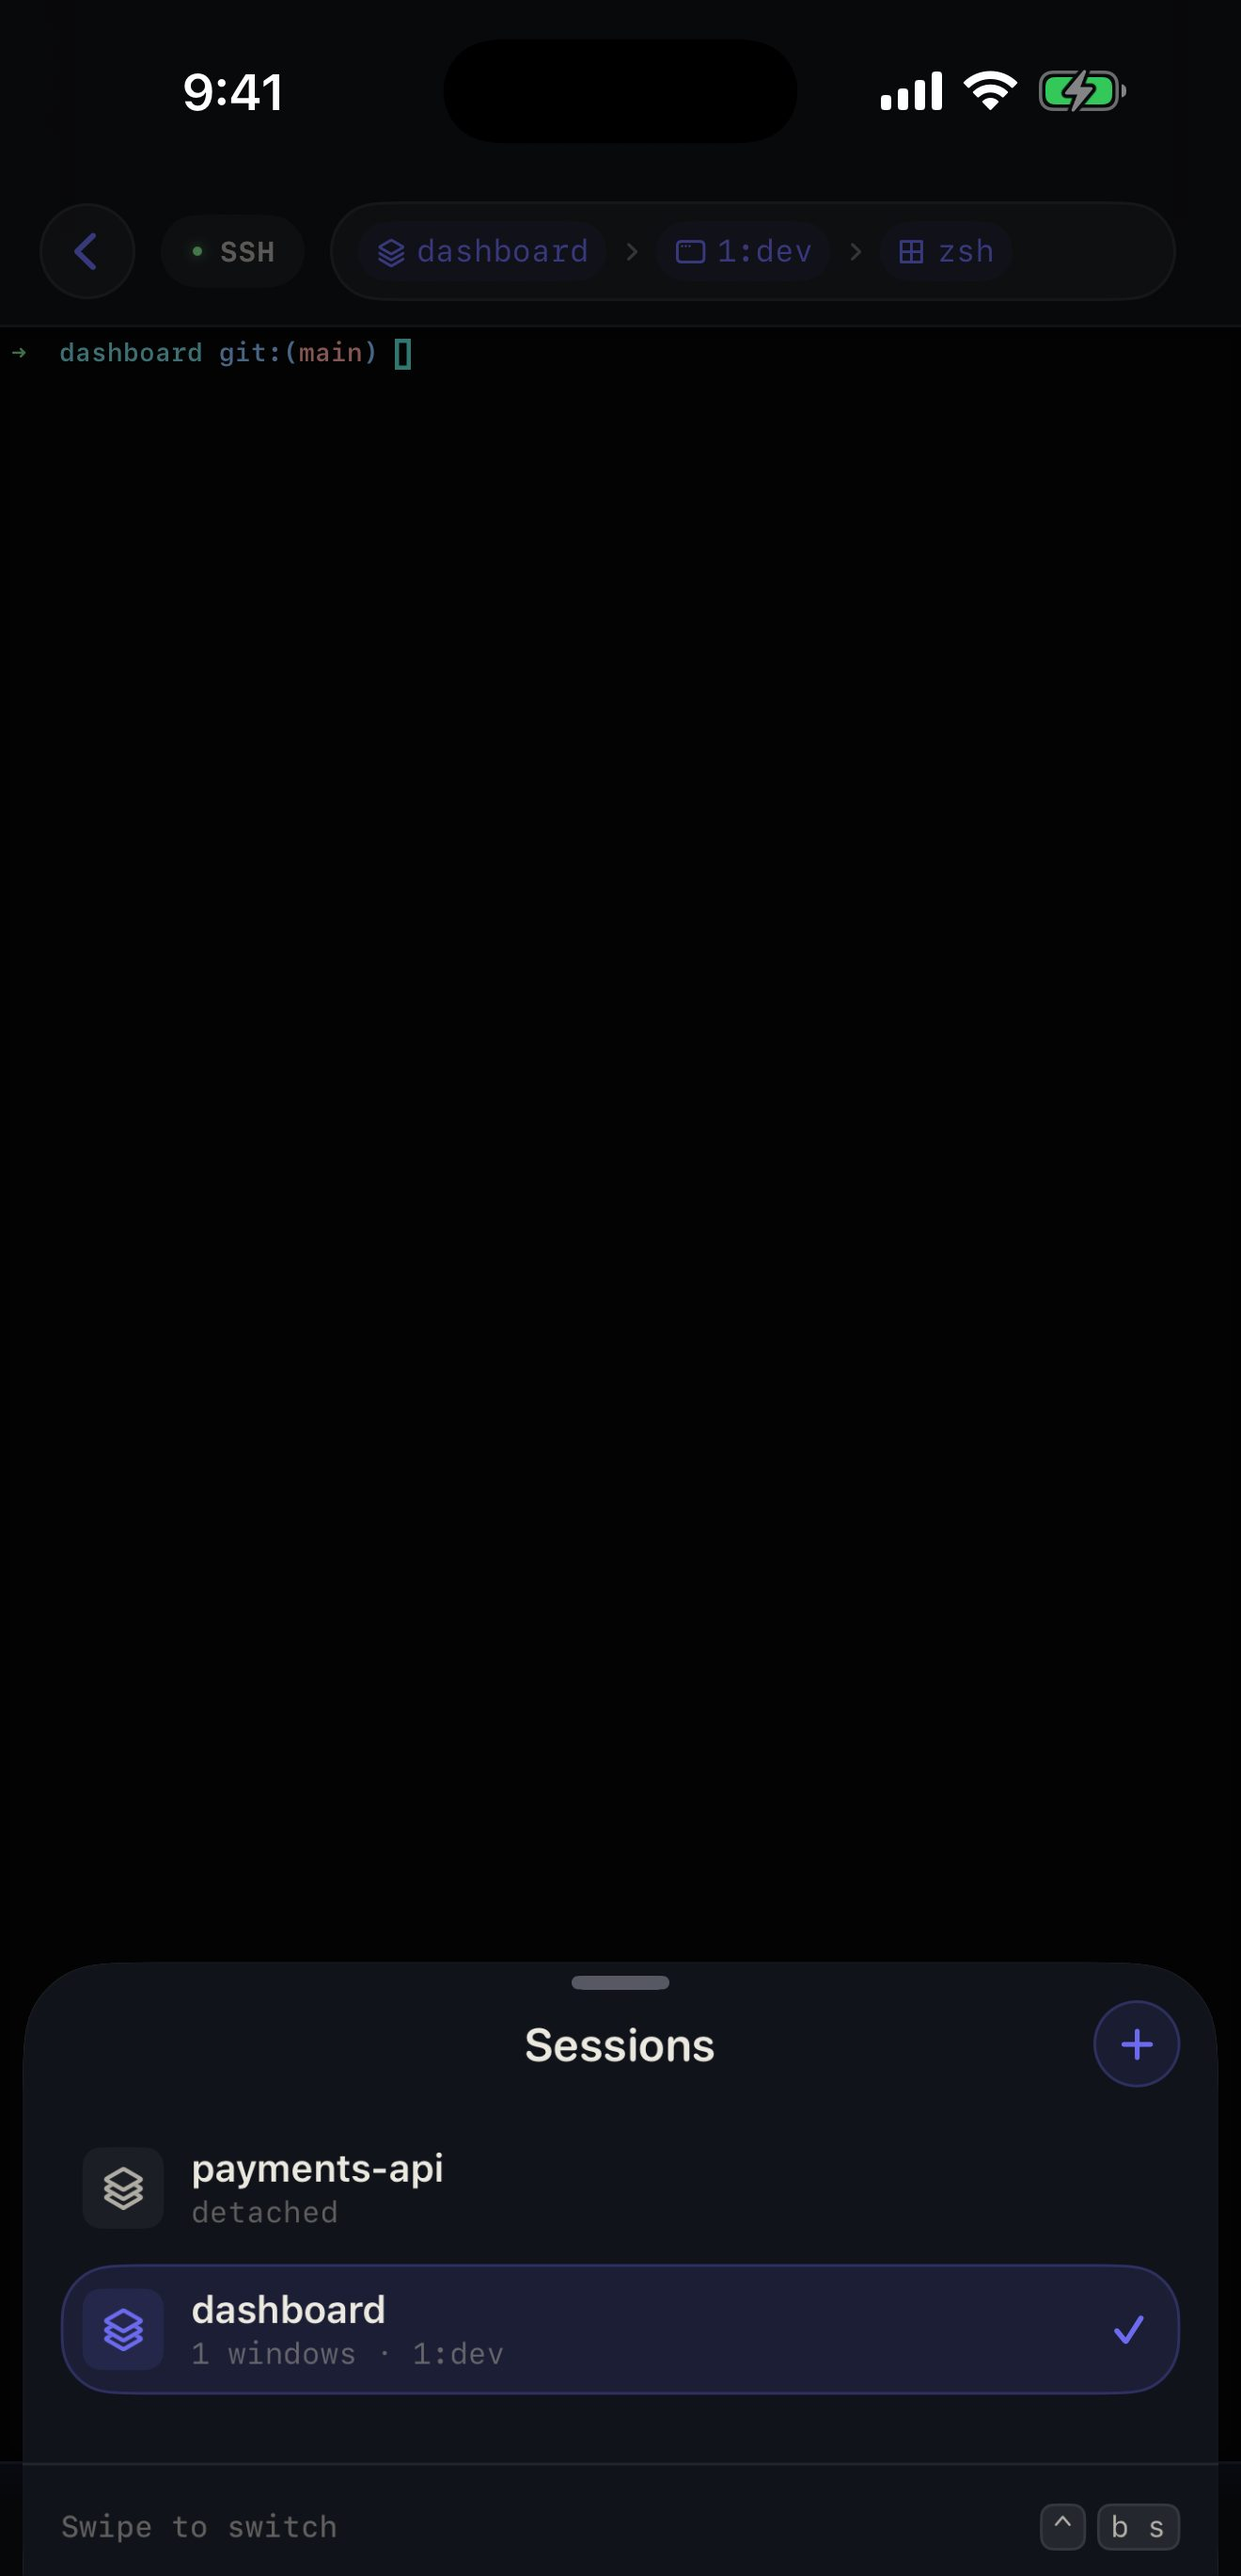
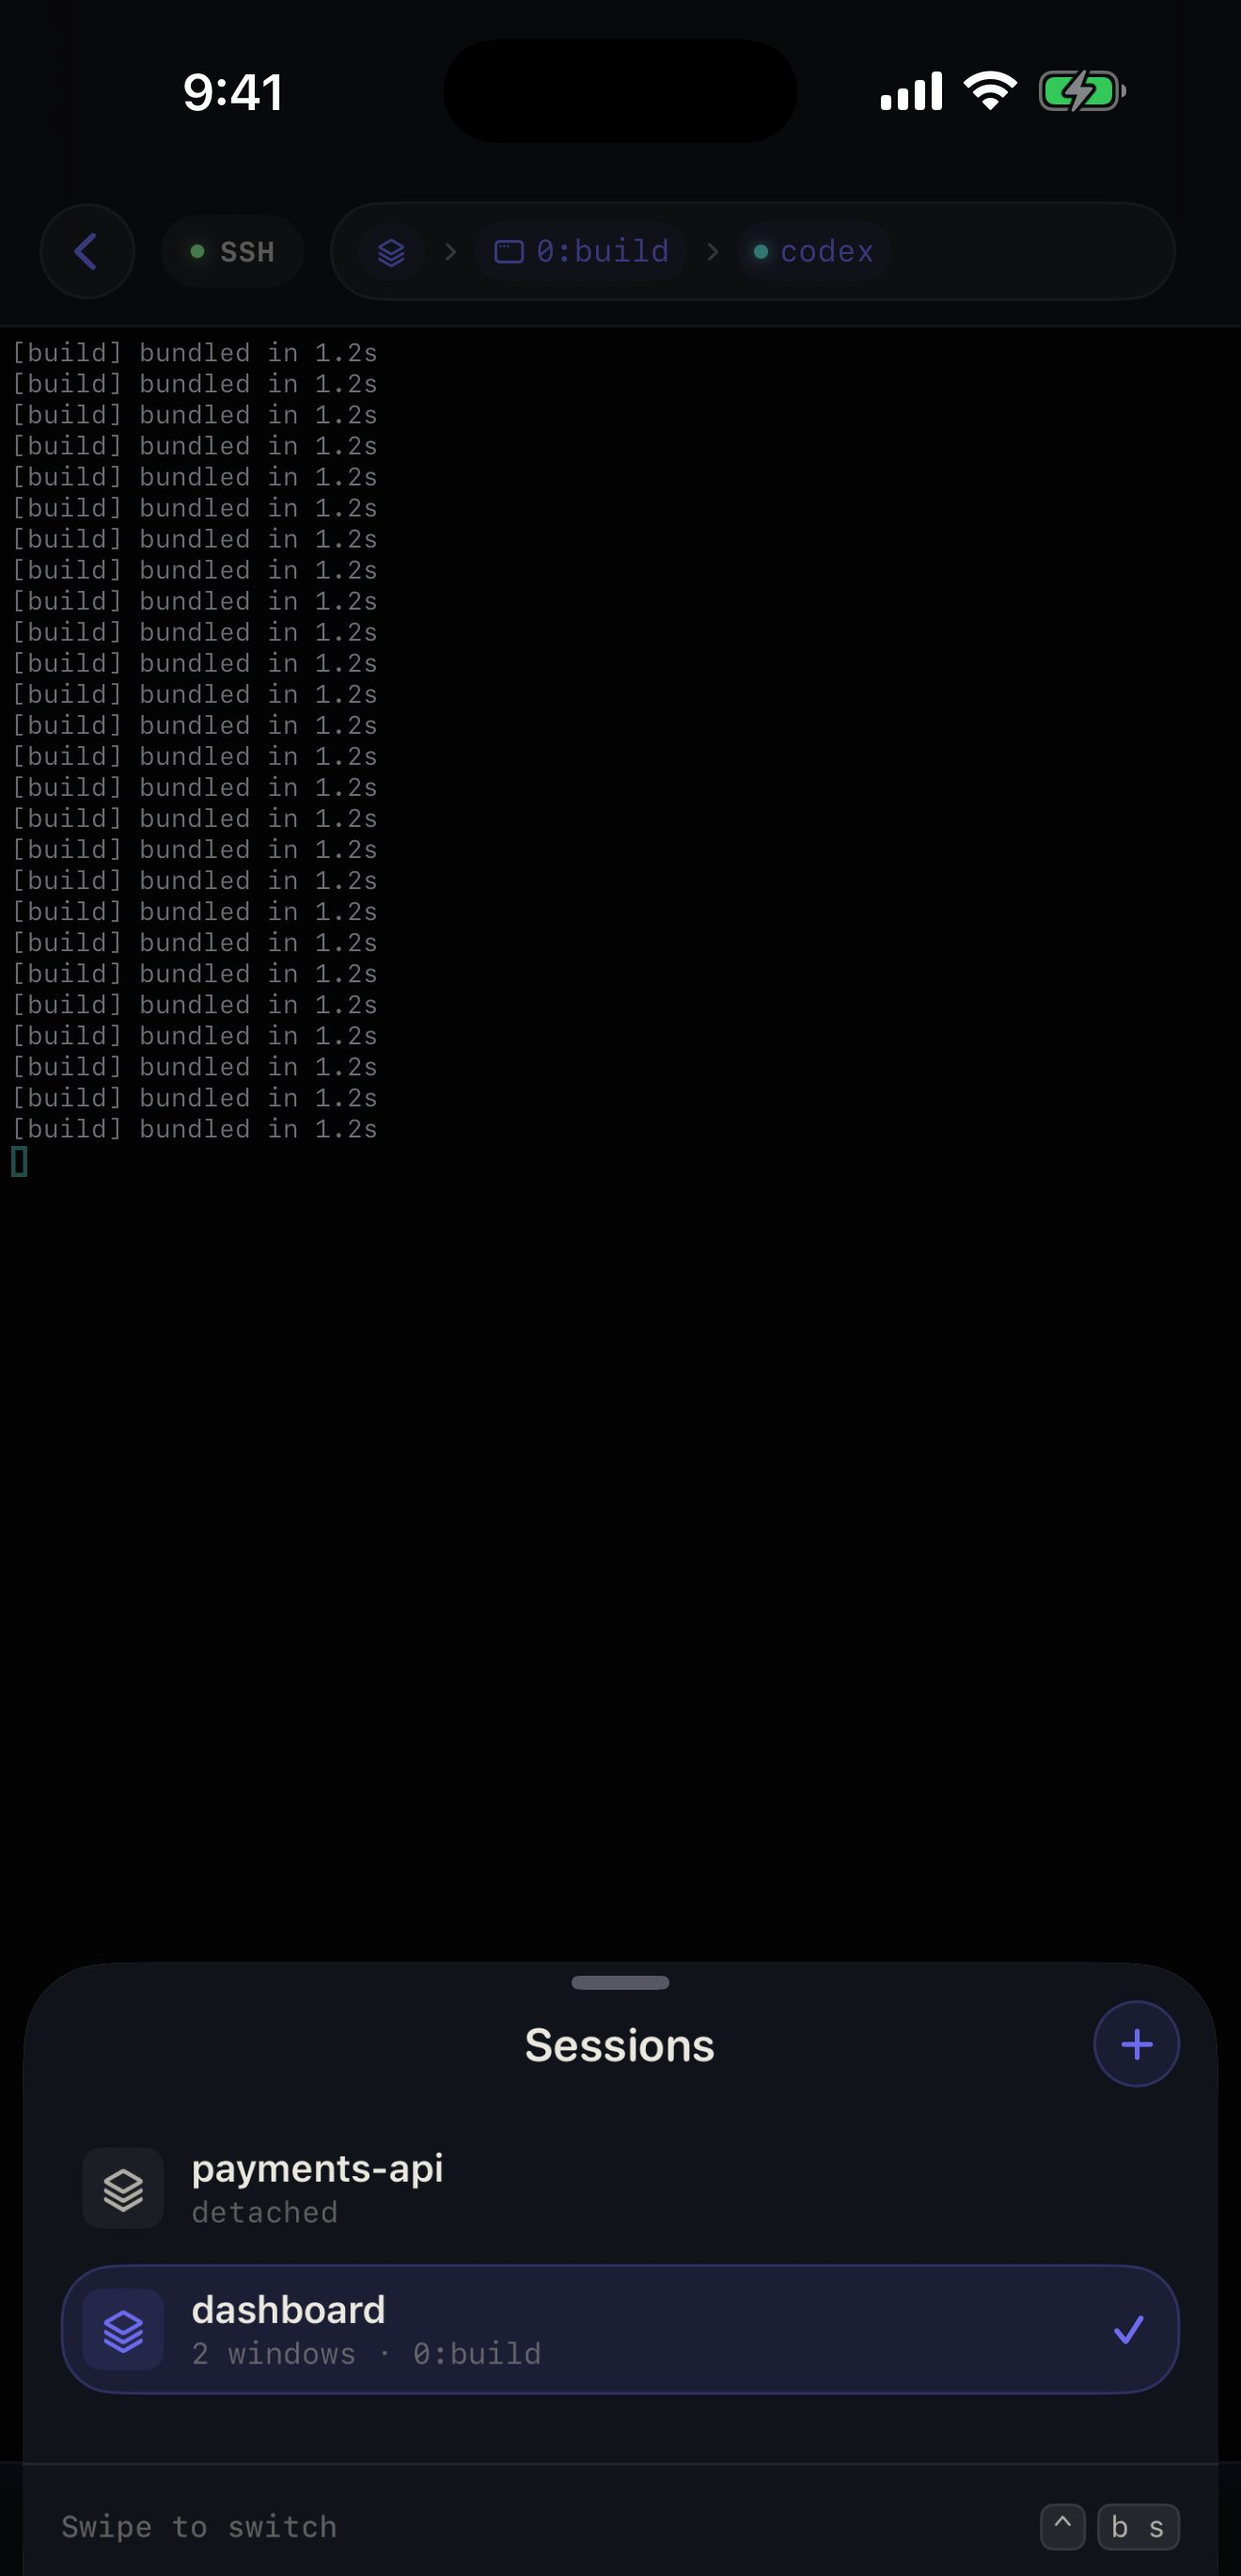
Put real screenshots in tmux/scrolling/clipboard/appearance/keyboard docs
Those five pages carried zero screenshots between them (tmux, scrolling,
clipboard) or were missing coverage for real screens the copy already
describes (appearance's App Icon picker, keyboard's Shortcuts-editor
AVAILABLE list). All five images are genuine device captures against the
review-demo host, verified individually before wiring in — the same
capture run also caught and fixed the App Icon picker's real names, which
keyboard.md had wrong (documented as "Moshpit, Teal, Green, Amber,
Daylight, Mono, Cursor, Hail"; the actual set is "Moshpit, Ringdown, :wq,
Prefix, Localhost, No Carrier, Cursor, Hail").

Also fixes keys.md's SSH-keys screenshot alt text, which was truncated
mid-sentence ("...SECURE ENCLAVE section reading " with nothing after it)
in both languages.

crop-shots.py: dropped two stale entries from the WITHHELD list
(32-scrollback, 33-paste) — hardcoded from a prior bad capture run, no
longer true now that both have verified-correct content.

diff --git a/scripts/crop-shots.py b/scripts/crop-shots.py
@@ -51,10 +51,6 @@ MIN_KEEP = 0.32
 WITHHELD = {
     "09-mosh": "pane is a bare prompt — the staged run never reaches a plain "
                "login shell, and the pasteboard route did not land",
-    "32-scrollback": "identical to 07-tmux-terminal to within 0.02% of pixels — "
-                     "the swipe did not scroll the pane",
-    "33-paste": "identical to 07-tmux-terminal — the paste control never opened; "
-                "an earlier attempt captured iOS's own permission alert instead",
 }
 
 

diff --git a/marketing/site-next/src/content/docs/zh/docs/keyboard.md b/marketing/site-next/src/content/docs/zh/docs/keyboard.md
@@ -41,6 +41,8 @@ description: "键盘上方那条快捷键栏，是 Moshpit 里你按得最多的
 
 其中两个是专门为 coding agent 放的：`⌃End` 把 Claude Code 长长的对话跳到最新一行，`⇧Tab` 是它的模式切换。这两个在软键盘上根本打不出来—— 没有 End 键，Shift-Tab 也需要一个实体 Tab。
 
+![Shortcuts 编辑器里的 AVAILABLE 列表：没在栏上的内置键，每个都带一个绿色 + 可以加回去](/12-shortcuts-library.jpg)
+
 | 键 | 作用 |
 | --- | --- |
 | **ctrl** | Control，粘滞、只生效一次 |
@@ -237,7 +239,7 @@ Fira Code 和 JetBrains Mono 都在列表里，但你拿不到它们的连字。
 
 ## App 图标
 
-八个：Moshpit、Teal、Green、Amber、Daylight、Mono、Cursor、Hail。 其中有两个根本不是 app 那个标志——这一组做的是真的不同的图，不是同一张图换八个颜色。 选择器里显示的是打包进去的那张真图，不是重新画一遍，所以你看到的就是桌面上会出现的。
+八个：Moshpit、Ringdown、:wq、Prefix、Localhost、No Carrier、Cursor、Hail。 其中有两个根本不是 app 那个标志——这一组做的是真的不同的图，不是同一张图换八个颜色。 选择器里显示的是打包进去的那张真图，不是重新画一遍，所以你看到的就是桌面上会出现的。
 
 :::note
 这条限制 app 自己在那一页就写了，这里再说一遍：<b>图标和强调色是分开的， 因为 iOS 只允许在随 app 打包好的图标之间切换。</b> 自定义的强调色没法配一张自动生成的图。运行时创造一个 App 图标，这件事做不到。

diff --git a/marketing/site-next/src/content/docs/docs/keyboard.md b/marketing/site-next/src/content/docs/docs/keyboard.md
@@ -41,6 +41,8 @@ The editor has four groups. **PREVIEW** renders the bar as it will look. **IN TO
 
 Two of these exist specifically for coding agents: `⌃End` jumps a long Claude Code transcript to the live end, and `⇧Tab` is its mode toggle. Neither is typeable on a software keyboard — there is no End key, and Shift-Tab needs a hardware Tab.
 
+![The AVAILABLE list in the Shortcuts editor: built-in keys not currently on the bar, each with a green + to add it back](/12-shortcuts-library.jpg)
+
 | Key | What it does |
 | --- | --- |
 | **ctrl** | Control — sticky, one-shot |
@@ -237,7 +239,7 @@ Four built-in accents ship: **Signal Room** (the default indigo), **Teal Line**,
 
 ## App icon
 
-Eight icons: Moshpit, Teal, Green, Amber, Daylight, Mono, Cursor and Hail. Two of them are not the app's mark at all — the set is meant to be genuinely different artwork, not eight recolours. The picker renders the real bundled image rather than redrawing it, so what you see is what lands on your home screen.
+Eight icons: Moshpit, Ringdown, :wq, Prefix, Localhost, No Carrier, Cursor and Hail. Two of them are not the app's mark at all — the set is meant to be genuinely different artwork, not eight recolours. The picker renders the real bundled image rather than redrawing it, so what you see is what lands on your home screen.
 
 :::note
 The app says the limit on that screen, and it is worth repeating: <b>the icon is separate from the accent colour, because iOS only allows switching between icons bundled with the app.</b> A custom accent cannot have matching artwork generated for it. Nothing can create an app icon at runtime.

diff --git a/marketing/site-next/src/content/docs/docs/tmux.md b/marketing/site-next/src/content/docs/docs/tmux.md
@@ -7,6 +7,14 @@ You need tmux on the host, on `PATH` — or a path in the connection form's **Cu
 
 If tmux is missing the session degrades instead of failing: a plain SSH single pane plus a banner reading <b>"tmux not found on this host — plain SSH session."</b>, and an **Install tmux** action that shows the command for your package manager and runs it only when you tap it. Moshpit never silently swaps in a different multiplexer — tmux and herdr hold unrelated sessions. A custom tmux path skips the check entirely, since the probe only walks `PATH`.
 
+## Switching sessions and windows
+
+The breadcrumb above the terminal is live navigation, not a label. Tap the session name to see every session on the server and switch; tap the window segment to see that session's windows.
+
+![The session switcher sheet: every tmux session on the server, each showing its window count and whether it is attached elsewhere](/06-tmux-sessions.jpg)
+
+![The window switcher sheet for one session: each window's pane count, current command, and which one needs you](/08-tmux-windows.jpg)
+
 ## One line into your login shell
 
 Moshpit doesn't shrink tmux's own text UI onto a phone. It attaches as a control client — `tmux -CC`, the same control mode iTerm2 uses — and renders the result itself. On connect it writes exactly this:

diff --git a/marketing/site-next/src/content/docs/docs/scrolling.md b/marketing/site-next/src/content/docs/docs/scrolling.md
@@ -8,6 +8,8 @@ description: "A swipe up means two completely different things depending on what
 - **In a plain shell** — you move through real scrollback. On tmux that is tmux's own buffer, entered and left cleanly.
 - **In a full-screen app** — the swipe becomes a wheel event, forwarded to the app so it scrolls itself. Typing keeps working the whole time.
 
+![Scrolled back in a plain shell pane: several minutes of a webhook server's request log](/32-scrollback.jpg)
+
 ## How it decides
 
 On tmux, Moshpit asks tmux whether the pane's program has grabbed the mouse, and routes accordingly. On [herdr](/docs/herdr) it does not have to ask: scrolling is a protocol action and the *server* decides whether it becomes a mouse report or scrollback movement. That is one of the quiet places herdr is simply better.

diff --git a/marketing/site-next/src/content/docs/docs/appearance.md b/marketing/site-next/src/content/docs/docs/appearance.md
@@ -28,4 +28,6 @@ CJK coverage in these faces is uneven; characters they lack fall back to the sys
 
 Eight home-screen icons and a custom accent colour. These are separate choices on purpose: iOS can only switch to icons that were bundled at build time, so an icon could never follow an arbitrary accent — pretending otherwise would mean either forbidding custom colours or silently picking an approximate icon.
 
+![The App Icon picker: Moshpit, Ringdown, :wq, Prefix, Localhost, No Carrier, Cursor and Hail](/12-icons.jpg)
+
 One thing the accent deliberately does *not* touch: the agent state colours. Amber means “needs you” and teal means “working” on every screen and on the lock screen, whatever accent you choose. State colours that move with taste stop being state colours.

diff --git a/marketing/site-next/src/content/docs/zh/docs/appearance.md b/marketing/site-next/src/content/docs/zh/docs/appearance.md
@@ -28,4 +28,6 @@ description: "两套配色并存，而且是刻意分开的：终端主题决定
 
 8 个主屏图标，加一个可自定义的强调色。这两个是刻意分开的选择： iOS 只能切换到构建时就打包进去的图标，所以图标不可能跟随任意强调色—— 假装可以，就意味着要么禁止自定义颜色，要么悄悄挑一个近似的图标。
 
+![App Icon 选择页：Moshpit、Ringdown、:wq、Prefix、Localhost、No Carrier、Cursor、Hail](/12-icons.jpg)
+
 有一样东西强调色*刻意*碰不到：agent 的状态色。 无论你选什么强调色，琥珀永远是「等你回话」、青色永远是「正在干活」， 在每一屏和锁屏上都一样。会随品味变化的状态色，就不再是状态色了。

diff --git a/marketing/site-next/src/content/docs/zh/docs/scrolling.md b/marketing/site-next/src/content/docs/zh/docs/scrolling.md
@@ -8,6 +8,8 @@ description: "向上划这个动作，取决于窗格里跑着什么，含义完
 - **在普通 shell 里**——你在真实回滚里移动。tmux 上用的是 tmux 自己的缓冲， 进出都干净。
 - **在全屏程序里**——划动变成滚轮事件转发给那个程序，让它自己滚。 全程打字都正常。
 
+![普通 shell 窗格里的回滚：一个 webhook 服务器攒了几分钟的请求日志](/32-scrollback.jpg)
+
 ## 它怎么判断
 
 在 tmux 上，Moshpit 问 tmux「这个窗格的程序有没有抢鼠标」，然后据此路由。 在 [herdr](/zh/docs/herdr) 上根本不用问：滚动是一个协议动作， 由*服务端*决定它该变成鼠标报告还是回滚移动。这是 herdr 悄悄更胜一筹的地方之一。

diff --git a/marketing/site-next/src/content/docs/docs/keys.md b/marketing/site-next/src/content/docs/docs/keys.md
@@ -7,7 +7,7 @@ description: "Two different trust problems sit at either end of a connection: pr
 
 Under **Settings → SSH Keys** you can generate a key on the device or import one you already have. Generation happens locally; nothing is uploaded, because there is nowhere to upload it to.
 
-![The SSH Keys screen in Settings, before any key exists: a THIS DEVICE · SECURE ENCLAVE section reading ](/30-ssh-keys.jpg)
+![The SSH Keys screen in Settings, before any key exists: a THIS DEVICE · SECURE ENCLAVE section reading "No device key yet — generate one with +", and an IMPORTED section reading "No imported keys"](/30-ssh-keys.jpg)
 
 To use a generated key, copy its public half and append it to `~/.ssh/authorized_keys` on the host, the same as any other key.
 

diff --git a/marketing/site-next/src/content/docs/zh/docs/keys.md b/marketing/site-next/src/content/docs/zh/docs/keys.md
@@ -7,7 +7,7 @@ description: "一条连接的两头各有一个信任问题：向服务器证明
 
 **设置 → SSH Keys** 里可以在设备上生成密钥，或导入你已有的。 生成是本地完成的；什么都不会上传，因为压根没有可上传的地方。
 
-![The SSH Keys screen in Settings, before any key exists: a THIS DEVICE · SECURE ENCLAVE section reading ](/30-ssh-keys.jpg)
+![设置里的 SSH Keys 页面，还没有任何密钥时的样子：THIS DEVICE · SECURE ENCLAVE 一栏写着"No device key yet — generate one with +"，IMPORTED 一栏写着"No imported keys"](/30-ssh-keys.jpg)
 
 要用生成的密钥，把它的公钥部分复制出来，追加到主机的 `~/.ssh/authorized_keys` 里，和别的密钥一样。
 

diff --git a/marketing/site-next/src/content/docs/docs/clipboard.md b/marketing/site-next/src/content/docs/docs/clipboard.md
@@ -9,6 +9,8 @@ The paste key sits on the shortcut bar by default. Moshpit checks whether the ru
 
 If the program did not ask for bracketed paste, the text is sent as plain keystrokes — which is what that program expects, and why the check is worth doing rather than always wrapping.
 
+![A three-line clipboard paste landing in a plain shell as three complete commands, not fragmented keystrokes](/33-paste.jpg)
+
 ## Copying out
 
 Select text in the terminal with a long press and drag, then copy. URLs are linkified — including ones that wrapped across two rows, which Moshpit joins using the emulator's own soft-wrap bit rather than guessing from row width.
